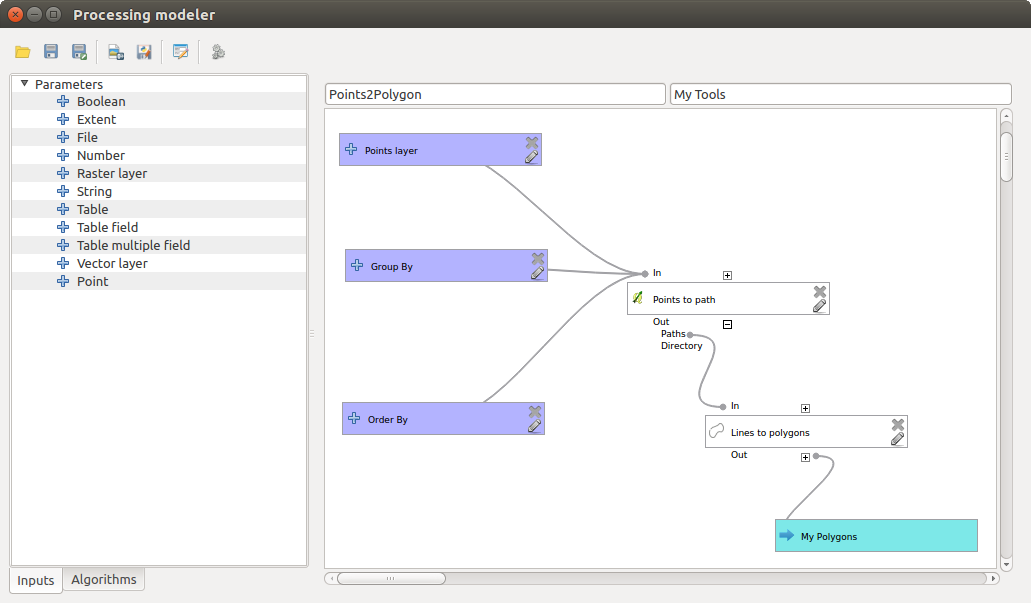
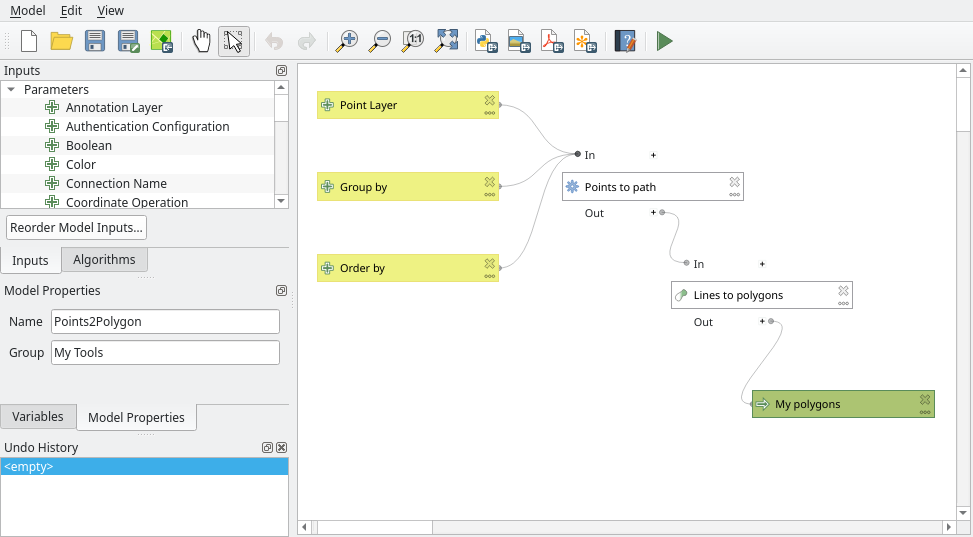
Rename graphical modeler to model designer to respect the GUI

diff --git a/docs/training_manual/processing/modeler_twi.rst b/docs/training_manual/processing/modeler_twi.rst
@@ -1,13 +1,13 @@
 .. _tm_start_modeler:
 
-Starting with the graphical modeler
+Starting with the model designer
 ============================================================
 
-.. note:: In this lesson we will use the graphical modeler, a powerful component that we can use to define a workflow and run a chain of algorithms.
+.. note:: In this lesson we will use the model designer, a powerful component that we can use to define a workflow and run a chain of algorithms.
 
 A normal session with the processing tools includes more than running a single algorithm. Usually several of them are run to obtain a result, and the outputs of some of those algorithms are used as input for some of the other ones.
 
-Using the graphical modeler, that workflow can be put into a model, which will run all the necessary algorithms in a single run, thus simplifying the whole process and automating it.
+Using the model designer, that workflow can be put into a model, which will run all the necessary algorithms in a single run, thus simplifying the whole process and automating it.
 
 To start this lesson, we are going to calculate a parameter named Topographic Wetness Index. The algorithm that computes it is called :guilabel:`Topographic wetness index (twi)`.
 
@@ -33,7 +33,7 @@ This is the result that you will obtain (the default singleband pseudocolor inve
 
 .. figure:: img/modeler_twi/twi_layer.png
 
-What we will try to do now is to create an algorithm that calculates the TWI from a DEM in just one single step. That will save us work in case we later have to compute a TWI layer from another DEM, since we will need just one single step to do it instead of the three above. All the processes that we need are found in the  toolbox, so what we have to do is to define the workflow to wrap them. This is where the graphical modeler comes in.
+What we will try to do now is to create an algorithm that calculates the TWI from a DEM in just one single step. That will save us work in case we later have to compute a TWI layer from another DEM, since we will need just one single step to do it instead of the three above. All the processes that we need are found in the  toolbox, so what we have to do is to define the workflow to wrap them. This is where the model designer comes in.
 
 #. Open the modeler by selecting its menu entry in the processing menu.
 

diff --git a/docs/user_manual/processing/modeler.rst b/docs/user_manual/processing/modeler.rst
@@ -1,6 +1,6 @@
 .. _`processing.modeler`:
 
-The graphical modeler
+The model designer
 =====================
 
 .. only:: html
@@ -8,20 +8,20 @@ The graphical modeler
    .. contents::
       :local:
 
-The *graphical modeler* allows you to create complex models using
+The *model designer* allows you to create complex models using
 a simple and easy-to-use interface.
 When working with a GIS, most analysis operations are not
 isolated, rather part of a chain of operations.
-Using the graphical modeler, that chain of operations can be wrapped
+Using the model designer, that chain of operations can be wrapped
 into a single process, making it convenient to execute later with a
 different set of inputs.
 No matter how many steps and different algorithms it involves, a
 model is executed as a single algorithm, saving time and effort.
 
-The graphical modeler can be opened from the Processing menu
+The model designer can be opened from the Processing menu
 (:menuselection:`Processing --> Graphical Modeler`).
 
-The graphical modeler interface
+The model designer interface
 -------------------------------
 
 .. _figure_modeler:
@@ -29,7 +29,7 @@ The graphical modeler interface
 .. figure:: img/modeler_canvas.png
    :align: center
 
-   Modeler
+   Model designer
 
 In its main part, the modeler has a working canvas where the structure
 of the model and the workflow it represents can be constructed.

diff --git a/docs/training_manual/processing/iterative.rst b/docs/training_manual/processing/iterative.rst
@@ -3,7 +3,7 @@ Iterative execution of algorithms
 
 .. note:: This lesson shows a different way of executing algorithms that use vector layers, by running them repeatedly, iterating over the features in an input vector layer
 
-We already know the graphical modeler, which is one way of automating processing tasks. However, in some situations, the modeler might not be what we need to automate a given task. Let's see one of those situations and how to easily solve it using a different functionality: the iterative execution of algorithms.
+We already know the model designer, which is one way of automating processing tasks. However, in some situations, the modeler might not be what we need to automate a given task. Let's see one of those situations and how to easily solve it using a different functionality: the iterative execution of algorithms.
 
 Open the data corresponding to this chapter. It should look like this.
 

diff --git a/docs/training_manual/processing/modeler_hydro.rst b/docs/training_manual/processing/modeler_hydro.rst
@@ -1,7 +1,7 @@
 More complex models
 ============================================================
 
-.. note:: In this lesson we will work with a more complex model in the graphical modeler.
+.. note:: In this lesson we will work with a more complex model in the model designer.
 
 The first model that we created in the previous chapter was a very simple one, with just one input and three algorithms. More complex models can be created, with different types of inputs and containing more steps. For this chapter we will work with a model that creates a vector layer with watersheds, based on a DEM and a threshold value. That will be very useful for calculating several vector layers corresponding to different thresholds, without having to repeat each single step each time.
 

diff --git a/docs/training_manual/processing/html.rst b/docs/training_manual/processing/html.rst
@@ -44,6 +44,6 @@ the text output from an external process. In other cases, the output is presente
 as text, but internally is divided into several smaller outputs, usually in
 the form of numeric values. The algorithm that we have just executed is one of them.
 Each one of those values is handled as a single output, and stored in a variable.
-This has no importance at all now, but once we move to the graphical modeler,
+This has no importance at all now, but once we move to the model designer,
 you will see that it will allow us to use those values as numeric inputs for
 other algorithms. 

diff --git a/docs/user_manual/processing/3rdParty.rst b/docs/user_manual/processing/3rdParty.rst
@@ -20,7 +20,7 @@ to include these additional applications, and it will explain some
 particular features of the algorithms based on them.
 Once you have correctly configured the system, you will be able to
 execute external algorithms from any component like the toolbox or the
-graphical modeler, just like you do with any other algorithm.
+model designer, just like you do with any other algorithm.
 
 By default, algorithms that rely on an external application not
 shipped with QGIS are not enabled.

diff --git a/docs/user_manual/processing/scripts.rst b/docs/user_manual/processing/scripts.rst
@@ -390,7 +390,7 @@ difficult to understand if you have read the previous chapter.
 The first lines, however, need some additional explanation.
 They provide the information that is needed to turn your code into
 an algorithm that can be run from any of the GUI components, like
-the toolbox or the graphical modeler.
+the toolbox or the model designer.
 
 These lines are all calls to the ``@alg`` decorator functions that
 help simplify the coding of the algorithm.

diff --git a/docs/user_manual/introduction/general_tools.rst b/docs/user_manual/introduction/general_tools.rst
@@ -1505,7 +1505,7 @@ manage:
   :ref:`project_properties`)
 * **vector layer variables** from the :guilabel:`Layer Properties` dialog
   (see :ref:`vector_properties_dialog`);
-* **modeler variables** from the :guilabel:`Graphical Modeler` dialog
+* **modeler variables** from the :guilabel:`Model Designer` dialog
   (see :ref:`processing.modeler`);
 * **layout variables** from the :guilabel:`Layout` panel in the
   Print layout (see :ref:`layout_panel`);

diff --git a/docs/user_manual/processing/intro.rst b/docs/user_manual/processing/intro.rst
@@ -40,7 +40,7 @@ and will be explained later in this chapter).
 
    Processing Toolbox
 
-* The :guilabel:`Graphical Modeler`: Several algorithms can be combined
+* The :guilabel:`Model Designer`: Several algorithms can be combined
   graphically using the modeler to define a workflow, creating a single
   process that involves several subprocesses.
 

diff --git a/docs/user_manual/processing_algs/qgis/modelertools.rst b/docs/user_manual/processing_algs/qgis/modelertools.rst
@@ -3,7 +3,7 @@ Modeler tools
 
 .. warning::
 
- These tools are only available in the Graphical Modeler.
+ These tools are only available in the model designer.
  They are not available in the Processing Toolbox.
 
 .. only:: html
